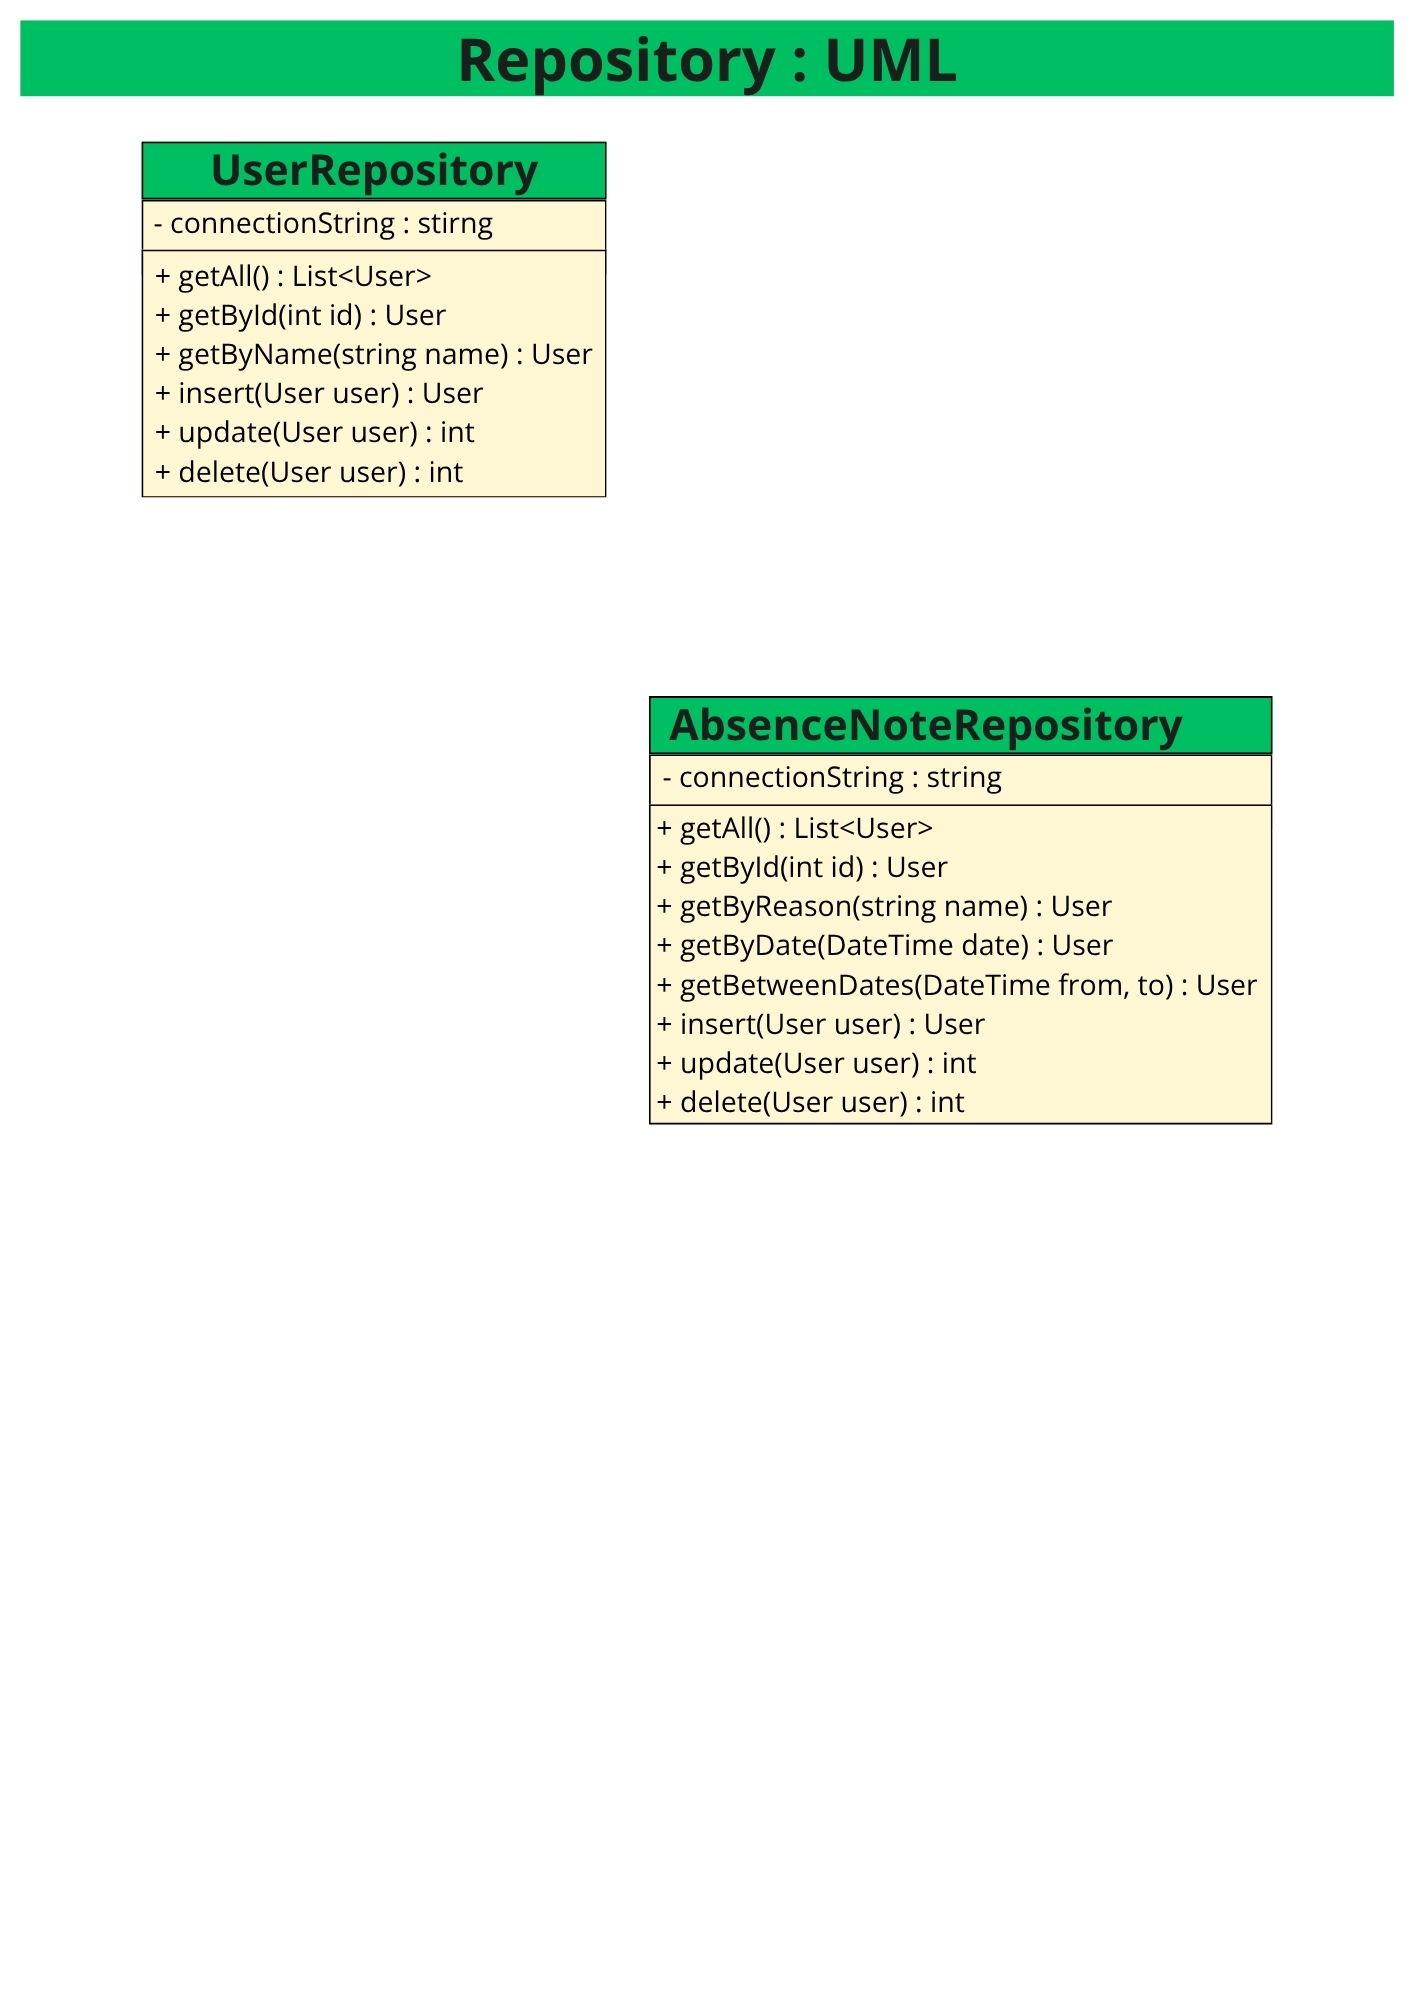
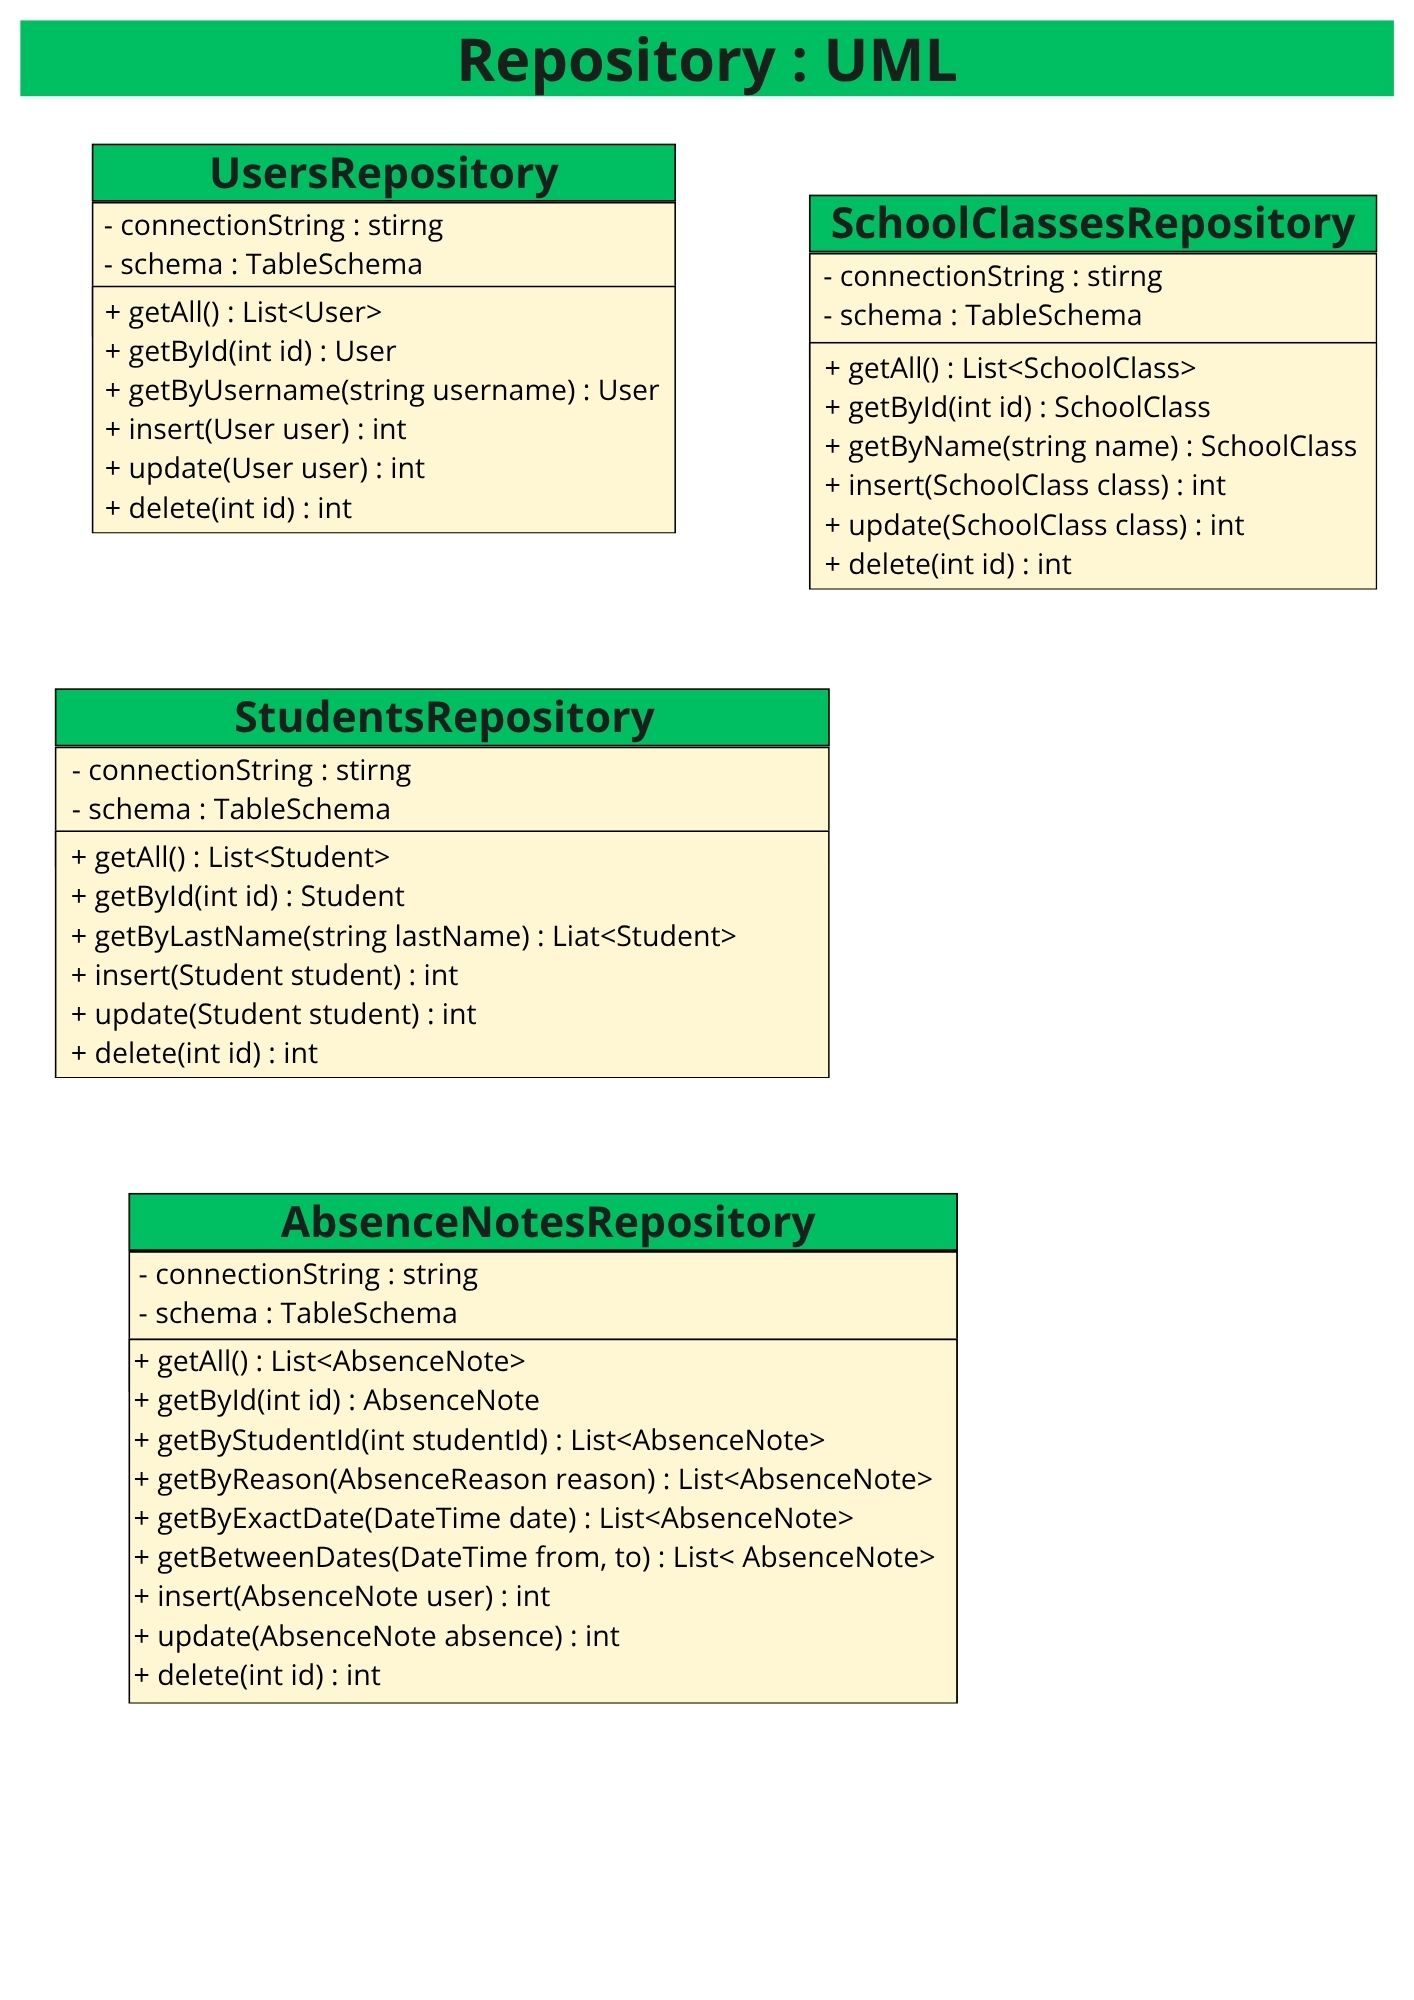
Refactor repositories and improve Schema relationships

diff --git a/README.md b/README.md
@@ -33,7 +33,11 @@ dotnet run
 SchoolAttendanceManager/
 ├─── docs/
 |   ├── uml/
-|   |   ├── modules-uml
+|   |   ├── modules-uml.jpg
+|   |   ├── repository-uml.jpg
+|   |   └── schema-uml.jpg
+|   ├── erd/
+|   |   └── database_erd.jpg
 |   ├── api/
 |   └── DECISIONS.md
 ├─── src/

diff --git a/TASKS.md b/TASKS.md
@@ -13,6 +13,9 @@
 - [ ] WinForms client
 - [ ] docs
 - [ ] .gitignore
+- [ ] Edit README.me
+- [ ] Edit repository-uml
+- [ ] services-uml
 
 ## In Progress
 
